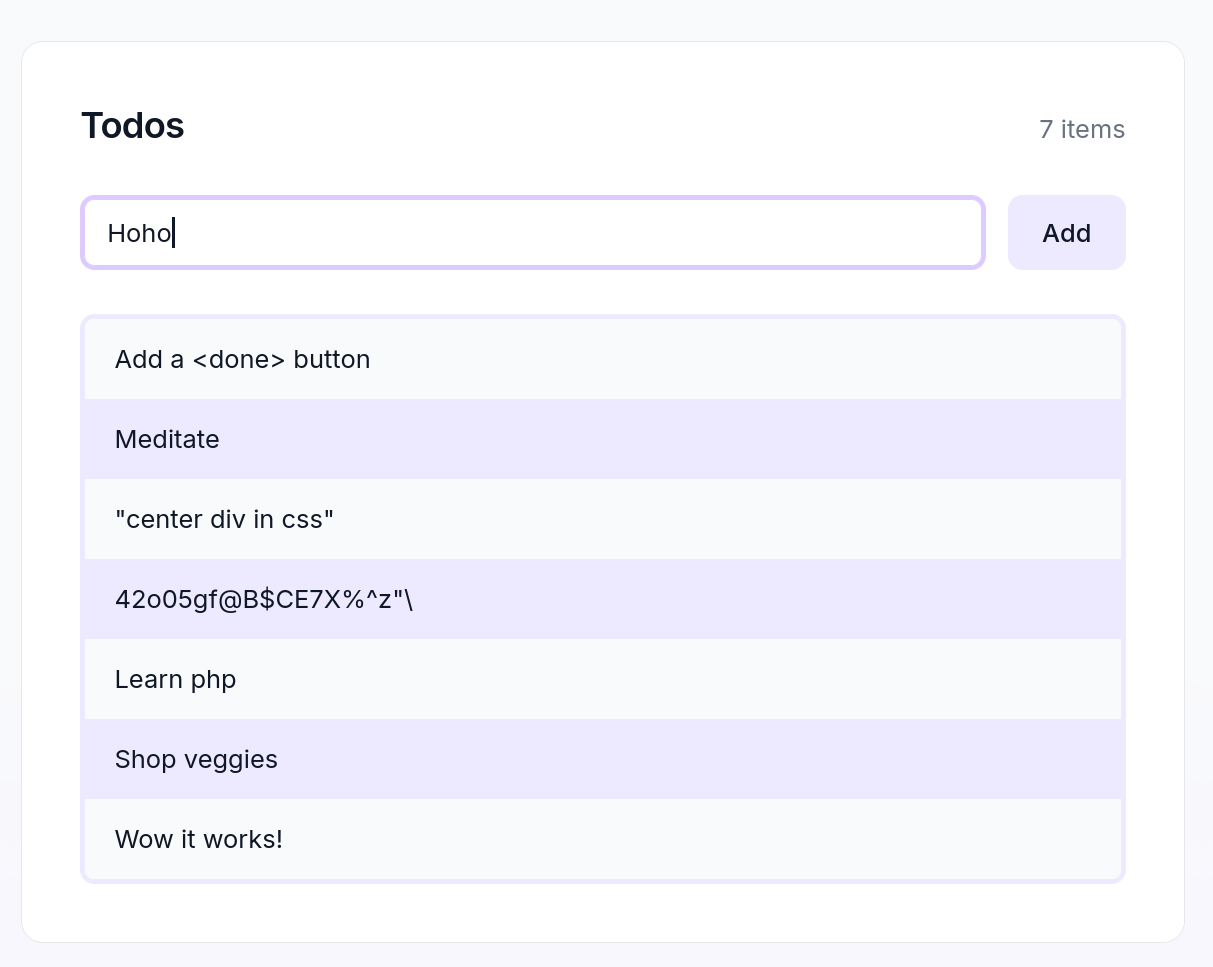
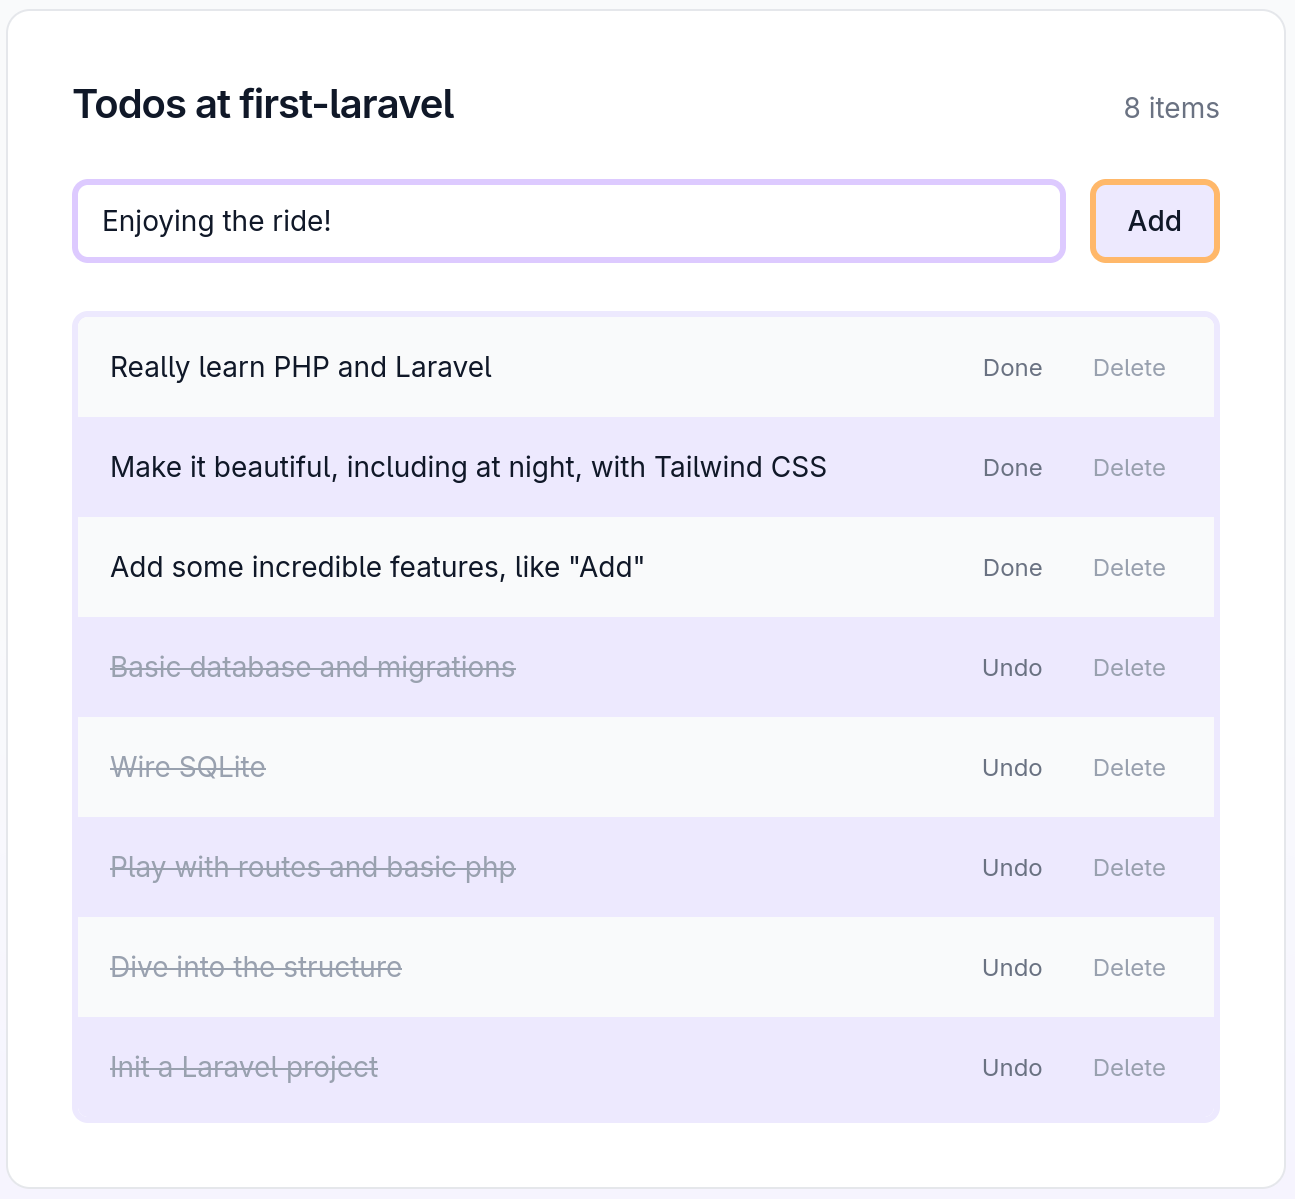
add done/delete, fix routing

diff --git a/resources/views/todos/index.blade.php b/resources/views/todos/index.blade.php
@@ -5,7 +5,7 @@
 @section('content')
     <div class="flex items-baseline justify-between gap-4">
         <h1 class="text-xl font-semibold tracking-tight">
-            <span class="text-grey-700 dark:text-violet-300">Todos</span>
+            <span class="text-grey-700 dark:text-violet-300">Todos at first-laravel</span>
         </h1>
 
         <span class="text-sm text-gray-500 dark:text-gray-400">
@@ -45,21 +45,51 @@
     @endif
 
     <ul class="mt-6 overflow-hidden rounded-lg border-3 border-violet-100/100 dark:border-violet-900/30">
-        @forelse ($todos as $todo)
-            <li
-                class="
-                    px-4 py-3 text-sm
-                    {{ $loop->odd
-                        ? 'bg-gray-50 dark:bg-gray-900'
-                        : 'bg-violet-100/100 dark:bg-violet-900/30'
-                    }}
-                "
-            >
-                <span class="{{ $todo->done ? 'text-gray-400 line-through' : '' }}">
-                    {{ $todo->title }}
-                </span>
-            </li>
-        @empty
+            @forelse ($todos as $todo)
+                <li
+                    class="
+                        flex items-center justify-between gap-3 px-4 py-3 text-sm
+                        {{ $loop->odd
+                            ? 'bg-gray-50 dark:bg-gray-900'
+                            : 'bg-violet-100/100 dark:bg-violet-900/30'
+                        }}
+                    "
+                >
+                    <span class="{{ $todo->completed ? 'text-gray-400 line-through' : '' }}">
+                        {{ $todo->title }}
+                    </span>
+
+                    <div class="flex items-center gap-2">
+                        <form method="POST" action="/todos/{{ $todo->id }}/toggle">
+                            @csrf
+
+                            <button
+                                type="submit"
+                                class="text-xs rounded-md px-2 py-1
+                                       border border-transparent
+                                       text-gray-500 hover:text-violet-600
+                                       dark:text-gray-400 dark:hover:text-violet-300"
+                            >
+                                {{ $todo->completed? 'Undo' : 'Done' }}
+                            </button>
+                        </form>
+
+                            <form method="POST" action="/todos/{{ $todo->id }}">
+                            @csrf
+                            @method('DELETE')
+
+                            <button
+                                type="submit"
+                                class="text-xs rounded-md px-2 py-1
+                                       text-gray-400 hover:text-orange-600
+                                       dark:hover:text-orange-400"
+                            >
+                                Delete
+                            </button>
+                        </form>
+                    </div>
+                </li>
+            @empty
             <li class="px-4 py-8 text-sm text-gray-500 dark:text-gray-400 bg-gray-50 dark:bg-gray-900">
                 No todos yet.
             </li>

diff --git a/routes/web.php b/routes/web.php
@@ -1,38 +1,41 @@
 <?php
 
 use Illuminate\Support\Facades\Route;
+use Illuminate\Http\Request;
 use App\Models\Todo;
 
+
 Route::get('/', function () {
-    return view('welcome');
-});
-
-Route::get('/hi', function () {
-    return "Hi first! Is this a route?";
-});
-
-Route::get('/hello', function () {
-    return view('hello');
-});
-
-Route::get('/now', function () {
-    return now()->toDateTimeString();
+    return redirect('/todos');
 });
 
 Route::get('/todos', function () {
-    $todos = Todo::orderByDesc('id')->get();
-    return view('todos.index', ['todos' => $todos]);
-});
+    $todos = Todo::latest()->get();
+    return view('todos.index', compact('todos'));
+})->name('todos.index');
 
-Route::post('/todos', function () {
-    $data = request()->validate([
+Route::post('/todos', function (Request $request) {
+    $data = $request->validate([
         'title' => ['required', 'string', 'max:200'],
     ]);
 
     Todo::create([
         'title' => $data['title'],
-        'done' => false,
+        'completed' => false,
     ]);
 
-    return redirect('/todos');
+    return redirect()->route('todos.index');
+})->name('todos.store');
+
+Route::post('/todos/{todo}/toggle', function (Todo $todo) {
+    $todo->completed = ! $todo->completed;
+    $todo->save();
+
+    return redirect()->route('todos.index');
 });
+
+Route::delete('/todos/{todo}', function (Todo $todo) {
+    $todo->delete();
+
+    return redirect()->route('todos.index');
+})->name('todos.destroy');

diff --git a/database/migrations/2026_01_31_225144_add_completed_to_todos_table.php b/database/migrations/2026_01_31_225144_add_completed_to_todos_table.php
@@ -1,0 +1,23 @@
+<?php
+
+use Illuminate\Database\Migrations\Migration;
+use Illuminate\Database\Schema\Blueprint;
+use Illuminate\Support\Facades\Schema;
+
+return new class extends Migration
+{
+
+    public function up(): void
+    {
+        Schema::table('todos', function (Blueprint $table) {
+            $table->boolean('completed')->default(false);
+        });
+    }
+
+    public function down(): void
+    {
+        Schema::table('todos', function (Blueprint $table) {
+            $table->dropColumn('completed');
+        });
+    }
+};

diff --git a/README.md b/README.md
@@ -8,9 +8,12 @@ A minimal Todo app built to learn Laravel, PHP, and SQLite.
 - Practice PHP in a real project
 - Understand database connections and migrations
 
-## Current Status
+## Incredible features
 
 - Add a todo
+- Done/Undo task
+- Delete a todo
+- Night mode following system default
 
 ## Screenshot
 
